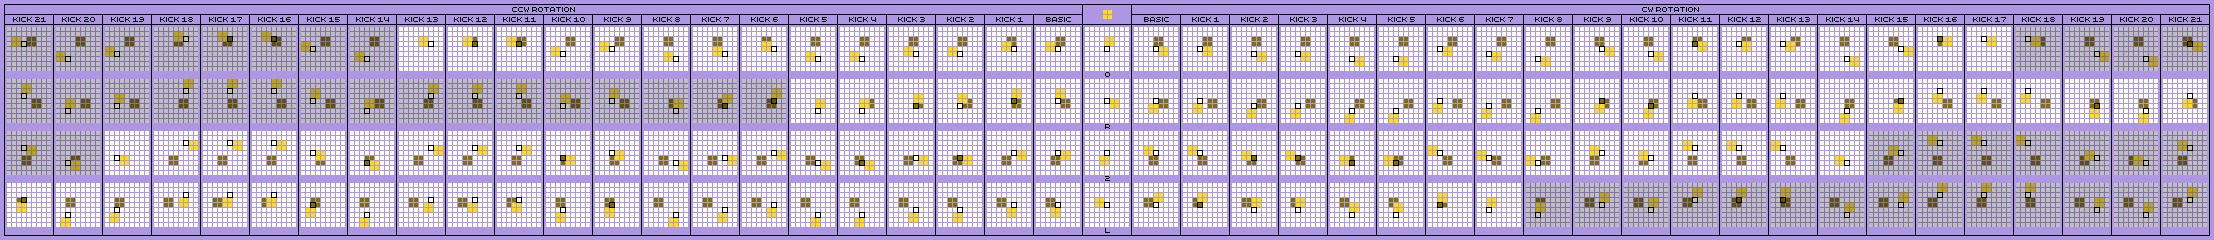
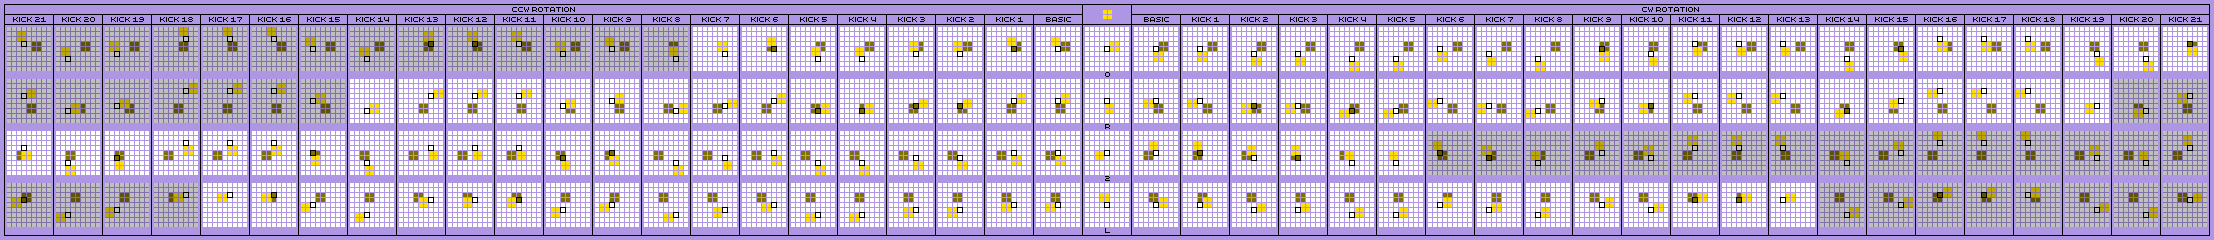
Added polyomino customisation to ASC section

diff --git a/chapter4.html b/chapter4.html
@@ -620,7 +620,7 @@
 				</section>
 
 				<section id="asc">
-					<h3>Ascension's Extensive Wall Kicks</h3>
+					<h3>Ascension's Extensive Kicks and Polyomino Customisation</h3>
 
 					<p>
 						While Ascension (ASC) features highly customisable pieces allowing you to play with any type of polyomino that can
@@ -899,6 +899,55 @@
 						/[G][G][G][G][ ][ ][G]/
 						/[G][G][G][G][ ][ ][G]/
 						~<span class="state">&lt;2R</span>~
+					</div>
+
+					<p>
+						If that chart earlier made it look like O-Spins in <span class="system">ASC</span> have a lot of untapped potential,
+						you'll be pleased to know you can access a lot more kicks via the polyomino customisation feature! You can place an
+						O tetromino anywhere in the 5x5 grid, but the rotation centre will always be in the middle of the grid. This means
+						you can move the O-piece's rotation centre to make the wall kicks even more powerful!
+					</p>
+
+					<p>
+						By default, the O-piece is biased slightly towards the upper-right corner, and its rotation centre is its lower-left
+						block. Within this quadrant of the 5x5 grid, there's space above and to the right of the O-piece, so there are four
+						distinct rotation centres you can give to it:
+					</p>
+
+					<ul>
+						<li>Default position</li>
+						<li>Horizontal offset (move all blocks one space to the right)</li>
+						<li>Vertical offset (move all blocks one space up)</li>
+						<li>Diagonal offset (move all blocks one space up and to the right)</li>
+					</ul>
+
+					<p>
+						If you place the O-piece blocks in a different quadrant, this is actually equivalent to one of the four
+						configurations above, except the piece will effectively spawn in a different state. For example, placing the piece
+						in the lower-right quadrant is equivalent to spawning in state R.
+					</p>
+
+					<p>
+						To give you an idea of how much this increases <span class="system">ASC</span>'s O-Spin potential, I have made some
+						charts for the other O-piece configurations. You can see that both the number of available kicks and the amount they
+						move the piece increases drastically, with the diagonal offset configuration enabling every single kick!
+					</p>
+
+					<p>
+						There is one trade-off with these configurations, though. Rotations that can access all 21 kicks do not have a kick
+						that returns the piece to its original position. As a result of this, these rotations can fail.
+					</p>
+
+					<div class="centre">
+						<img src="img/asc-o-10.png" alt="ASC O-Piece Offset Chart (horizontal state offset)" />
+					</div>
+
+					<div class="centre">
+						<img src="img/asc-o-01.png" alt="ASC O-Piece Offset Chart (vertical state offset)" />
+					</div>
+
+					<div class="centre">
+						<img src="img/asc-o-11.png" alt="ASC O-Piece Offset Chart (diagonal state offset)" />
 					</div>
 
 					<ul class="sources">

diff --git a/js/nav.js b/js/nav.js
@@ -45,7 +45,7 @@ function buildNavMenu(nav)
 
 	addChapter(nav, "Chapter 4: Tetris-like Stackers", "chapter4.html");
 	addSection(nav, "Aquamino and Stack Manipulation", "chapter4.html#aquamino");
-	addSection(nav, "Ascension's Extensive Wall Kicks", "chapter4.html#asc");
+	addSection(nav, "Ascension's Extensive Kicks and Polyomino Customisation", "chapter4.html#asc");
 	addSection(nav, "Hakairis and Infinite Warp Distance", "chapter4.html#hakairis");
 	addSection(nav, "Nuketris and Worm Mode", "chapter4.html#nuketris");
 	addSection(nav, "Polyform's Asymmetrical O-Spins", "chapter4.html#polyform");

diff --git a/js/app.js b/js/app.js
@@ -10,7 +10,7 @@ function buildFooter()
 	p1.innerText = "© 2024-2026 Dunspixel";
 
 	var p2 = document.createElement("p");
-	p2.innerText = "Last Updated 21/06/2026";
+	p2.innerText = "Last Updated 17/08/2026";
 
 	var p3 = document.createElement("p");
 	var githubLink = document.createElement("a");
